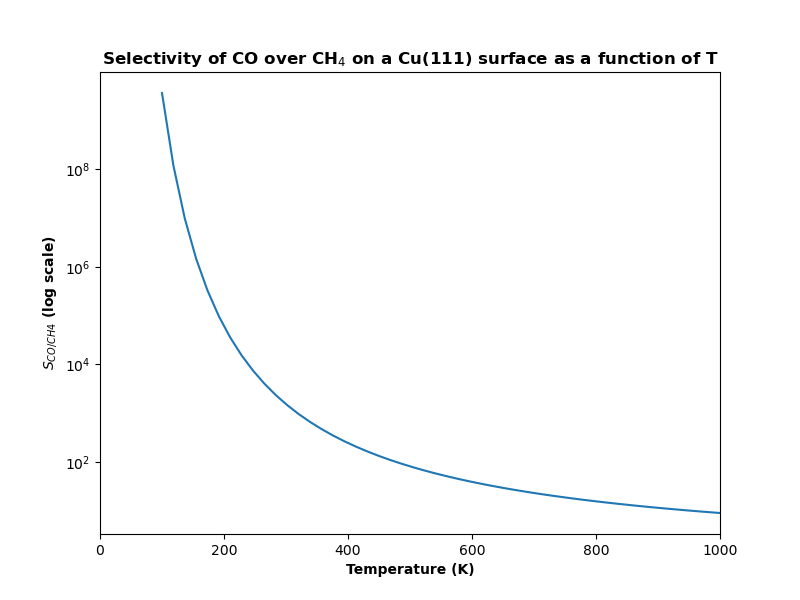
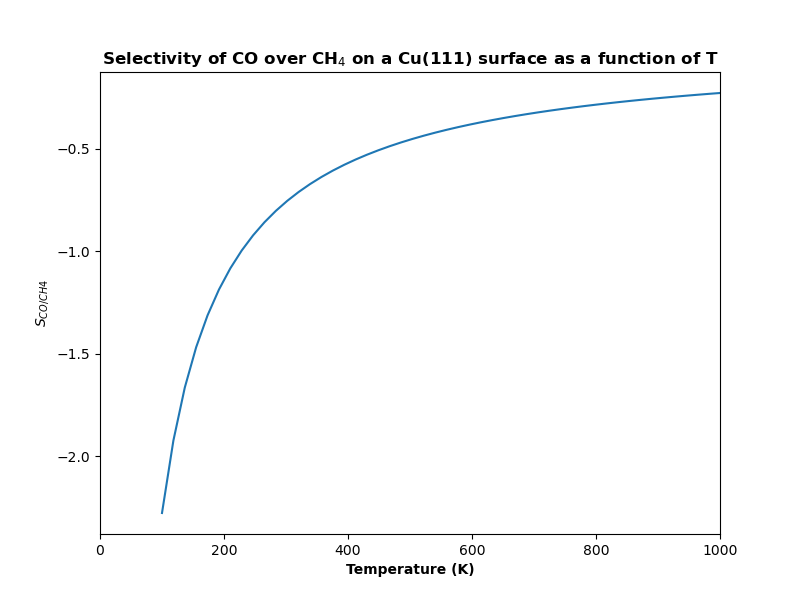
commit

diff --git a/Project/Final_Project.py b/Project/Final_Project.py
@@ -114,11 +114,11 @@ S_CO_CH4 = K_CO / K_CH4
 print("The selectivy of CO over CH4 is:", S_CO_CH4)
 
 plt.figure(figsize=(8,6))
-plt.plot(T, S_CO_CH4)
+plt.plot(T, np.log10(S_CO_CH4))
 plt.xlim(0,1000)
 plt.grid(linestyle = "--", linewidth=0.5, alpha=0.7)
 plt.xlabel("Temperature (K)", weight='bold')
-plt.ylabel("$S_{CO/CH4}$ (log scale)", weight='bold')
+plt.ylabel("$S_{CO/CH4}$", weight='bold')
 plt.title("Selectivity of CO over CH$_4$ on a Cu(111) surface as a function of T", weight='bold')
 plt.grid()
 plt.show()
